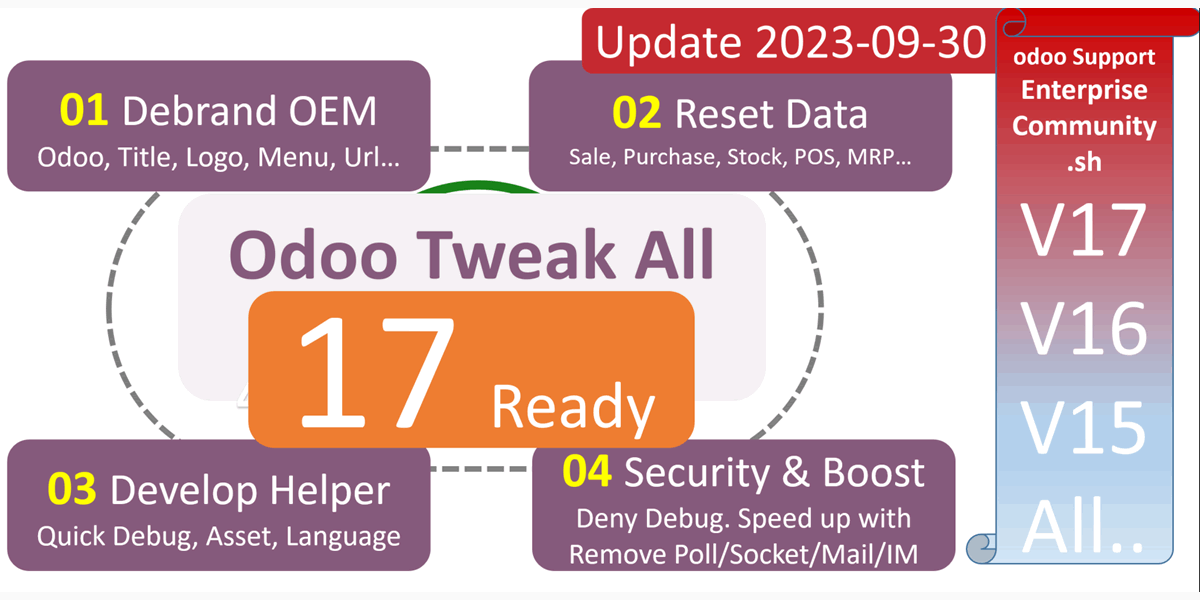
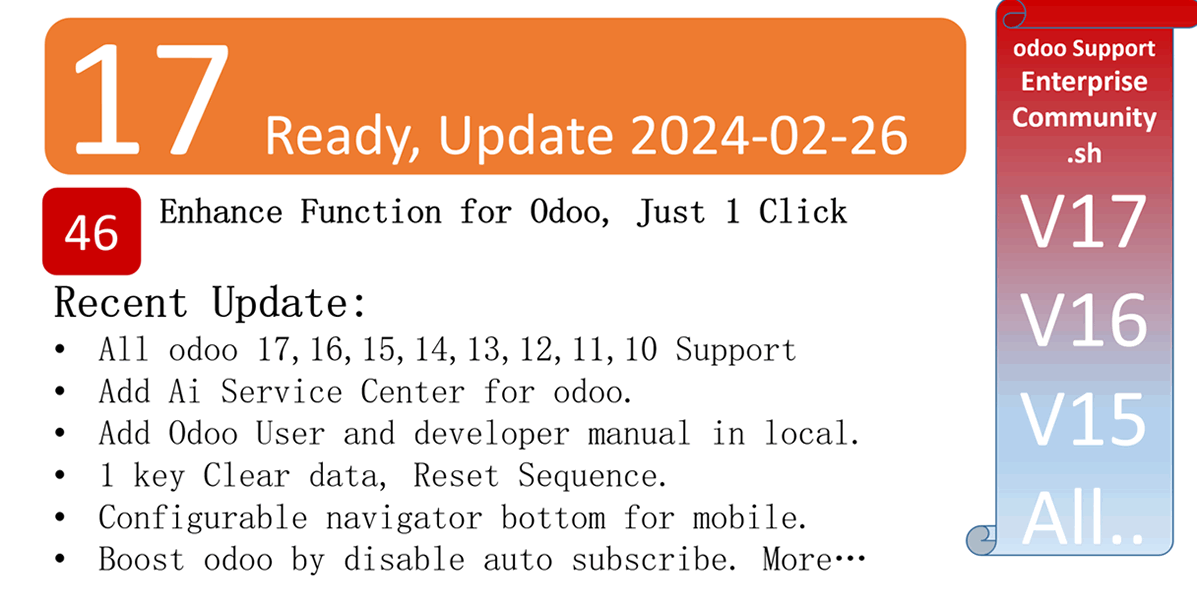
fix odoo customize

diff --git a/app_odoo_customize/static/description/index.html b/app_odoo_customize/static/description/index.html
@@ -20,7 +20,7 @@
 <section class="container app">
     <div class="oe_row oe_spaced" style="max-width: 95%;">
         <div class="row">
-            <h2 class="oe_slogan">This is a Long Term Support Apps.Update: v17.23.11.07</h2>
+            <h2 class="oe_slogan">This is a Long Term Support Apps.Update: v17.24.02.26</h2>
             <div class="oe_demo" style=" margin: 30px auto 0; padding: 0 15px 0 0; border:none; width: 96%;">
                 <ul class="list-group">
                     <li class="list-group-item">1. Deletes Odoo label in footer</li>
@@ -299,6 +299,8 @@
         <div class="row">
             <h2 class="oe_slogan">This is a Long Term Support Apps.</h2>
             <div class="oe_demo" style=" margin: 30px auto 0; padding: 0 15px 0 0; border:none; width: 96%;">
+                <h3>Update: v17.24.02.26</h3>
+                <p>Fix bug for odoo 17 origin update.</p>
                 <h3>Update: v16.23.09.13</h3>
                 <p>UI enhance. follow odoo16 setup UI.</p>
                 <p>46. Add Help documentation anywhere.  easy get help for any odoo operation or action.</p>

diff --git a/app_odoo_customize/__manifest__.py b/app_odoo_customize/__manifest__.py
@@ -23,7 +23,7 @@
 
 {
     'name': 'odoo17 Tweak,Ai Employee,Boost,Customize All in One. Customize,UI,Boost,Security,Data,Development Enhance',
-    'version': '23.11.16',
+    'version': '24.02.26',
     'author': 'odooai.cn',
     'category': 'Extra Tools',
     'website': 'https://www.odooai.cn',
